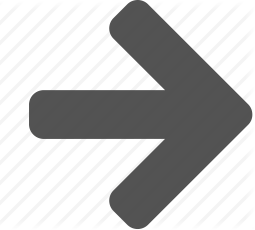
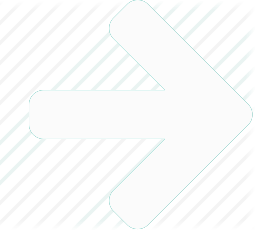
arrows have been turned white to be able to be seen

diff --git a/css/style.css b/css/style.css
@@ -280,7 +280,7 @@ body{
 
   .imgbanbtn-prev {
     left: 5px;
-    background-image: url(..images/arrow-left.png);
+    background-image: url(../images/arrow-left.png);
     background-size: 70%;
     background-position: center;
     background-repeat: no-repeat;
@@ -288,7 +288,7 @@ body{
 
   .imgbanbtn-next {
     right: 5px;
-    background-image: url(..images/arrow-right.png);
+    background-image: url(../images/arrow-right.png);
     background-size: 70%;
     background-position: center;
     background-repeat: no-repeat;
